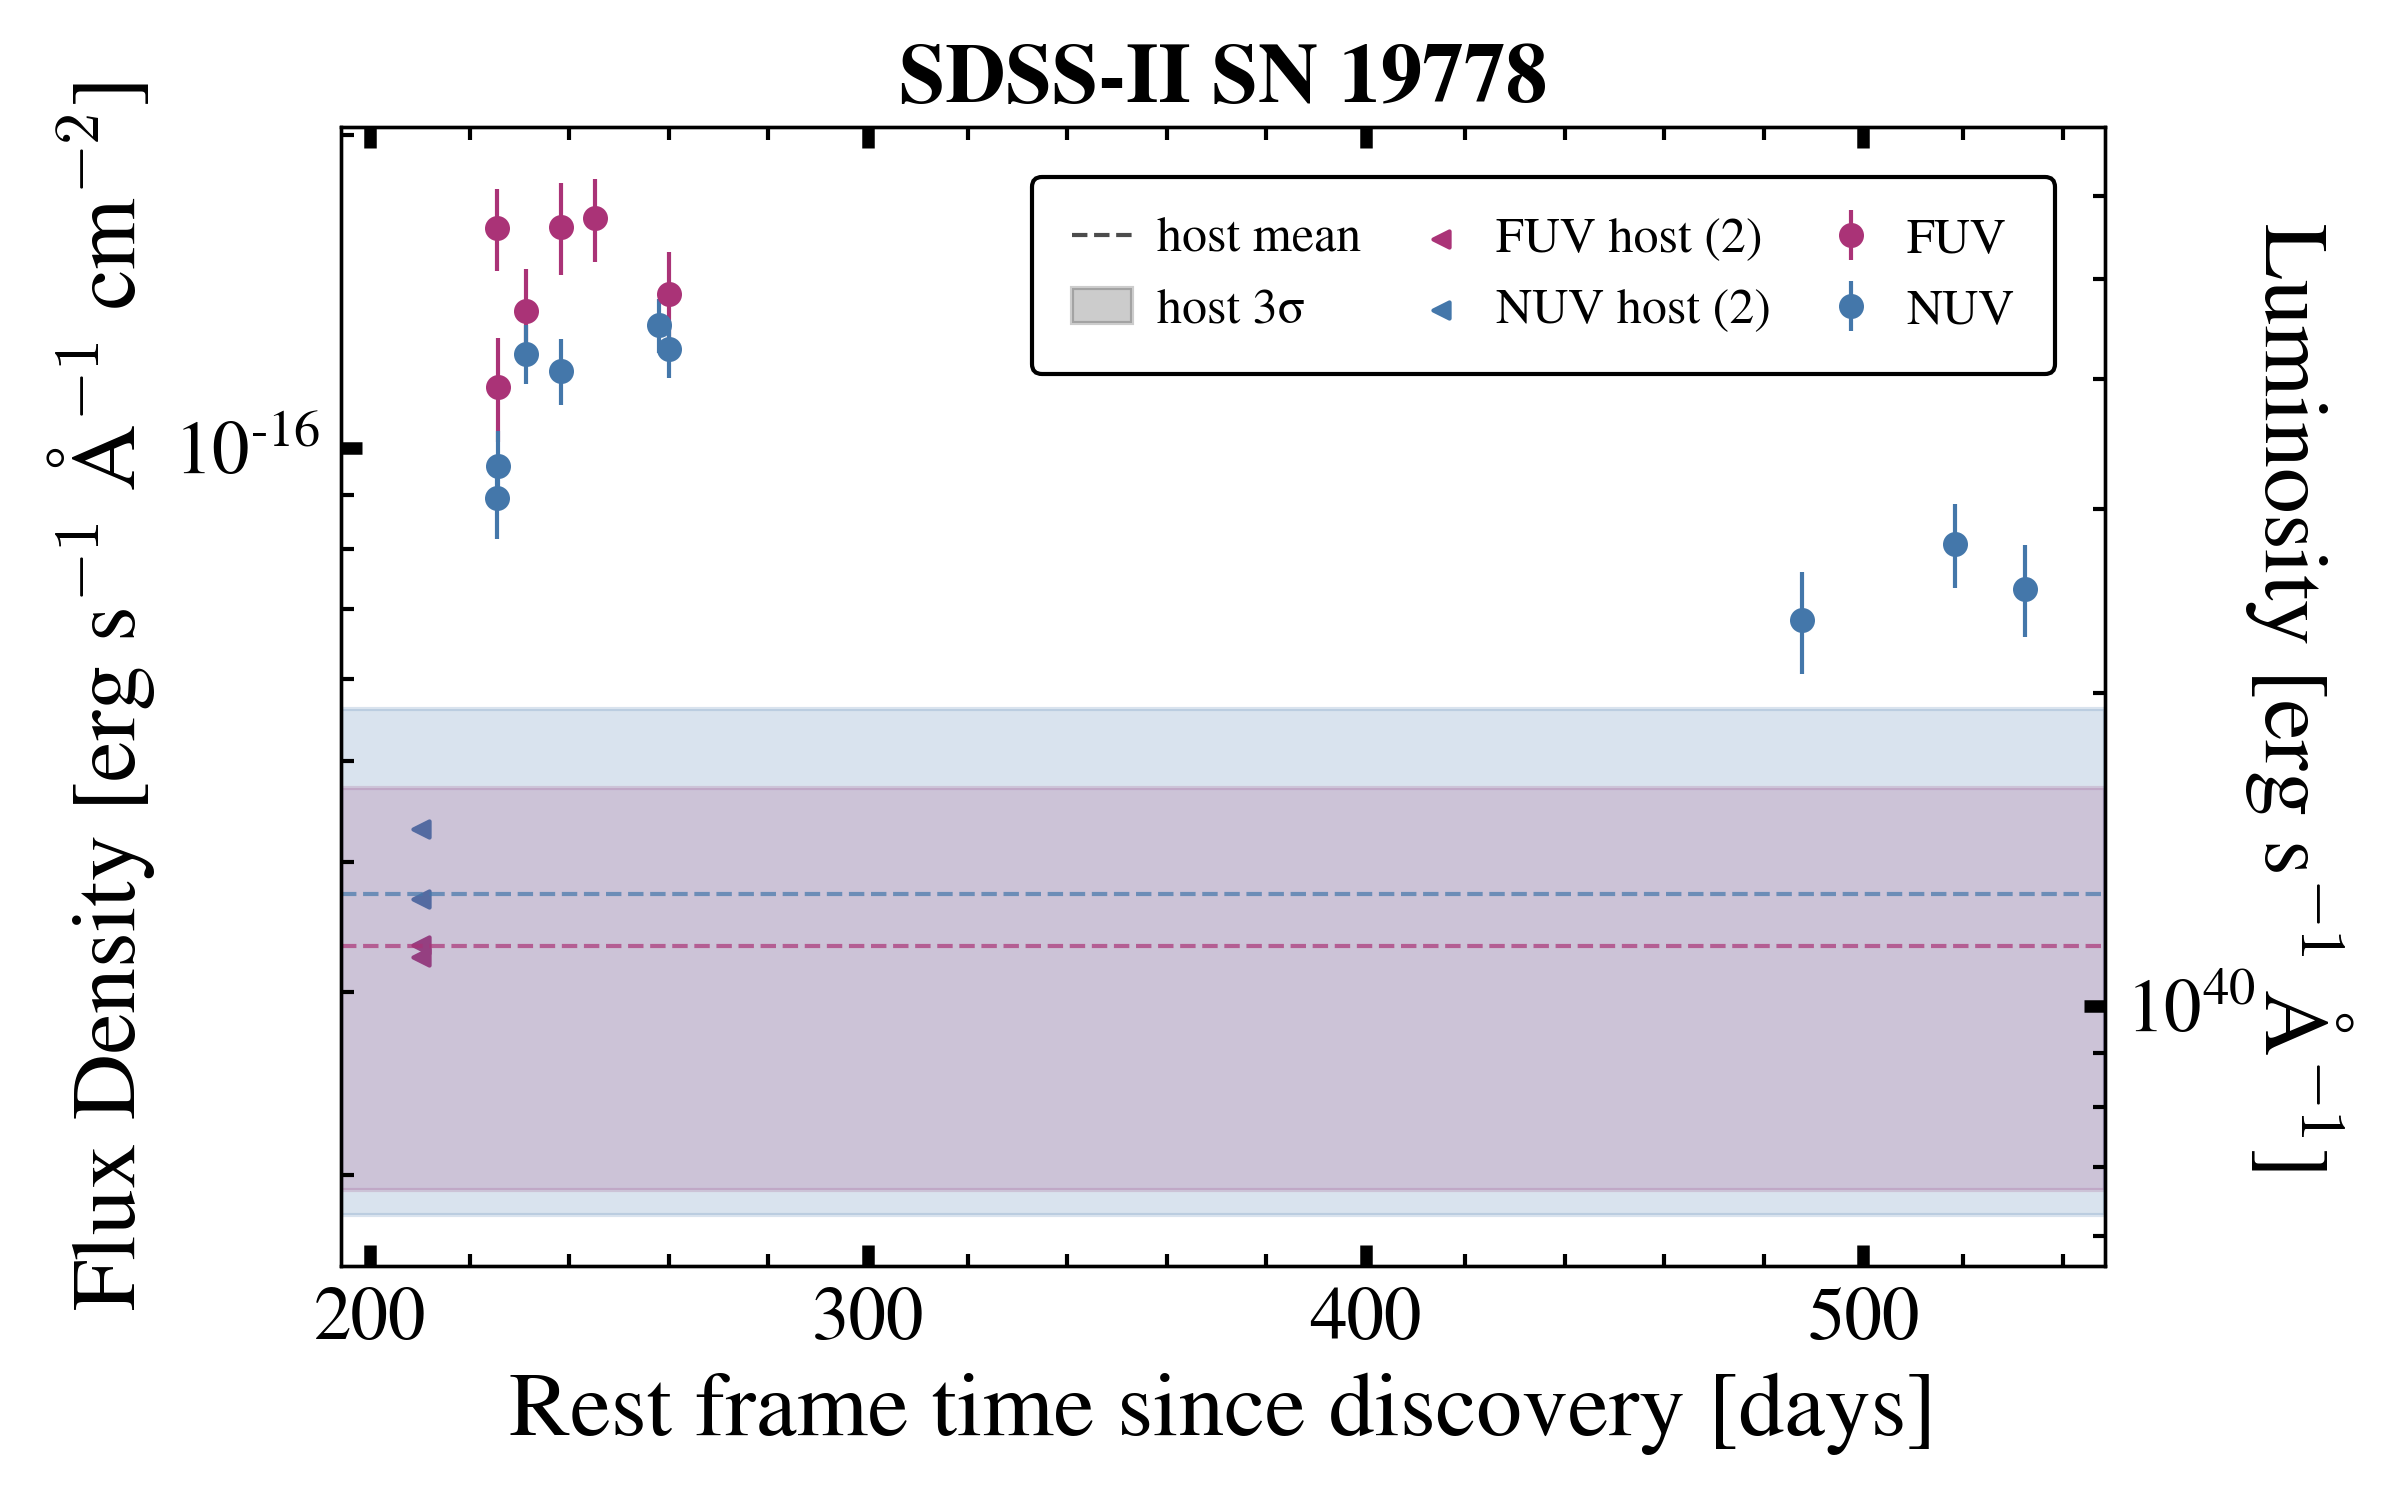
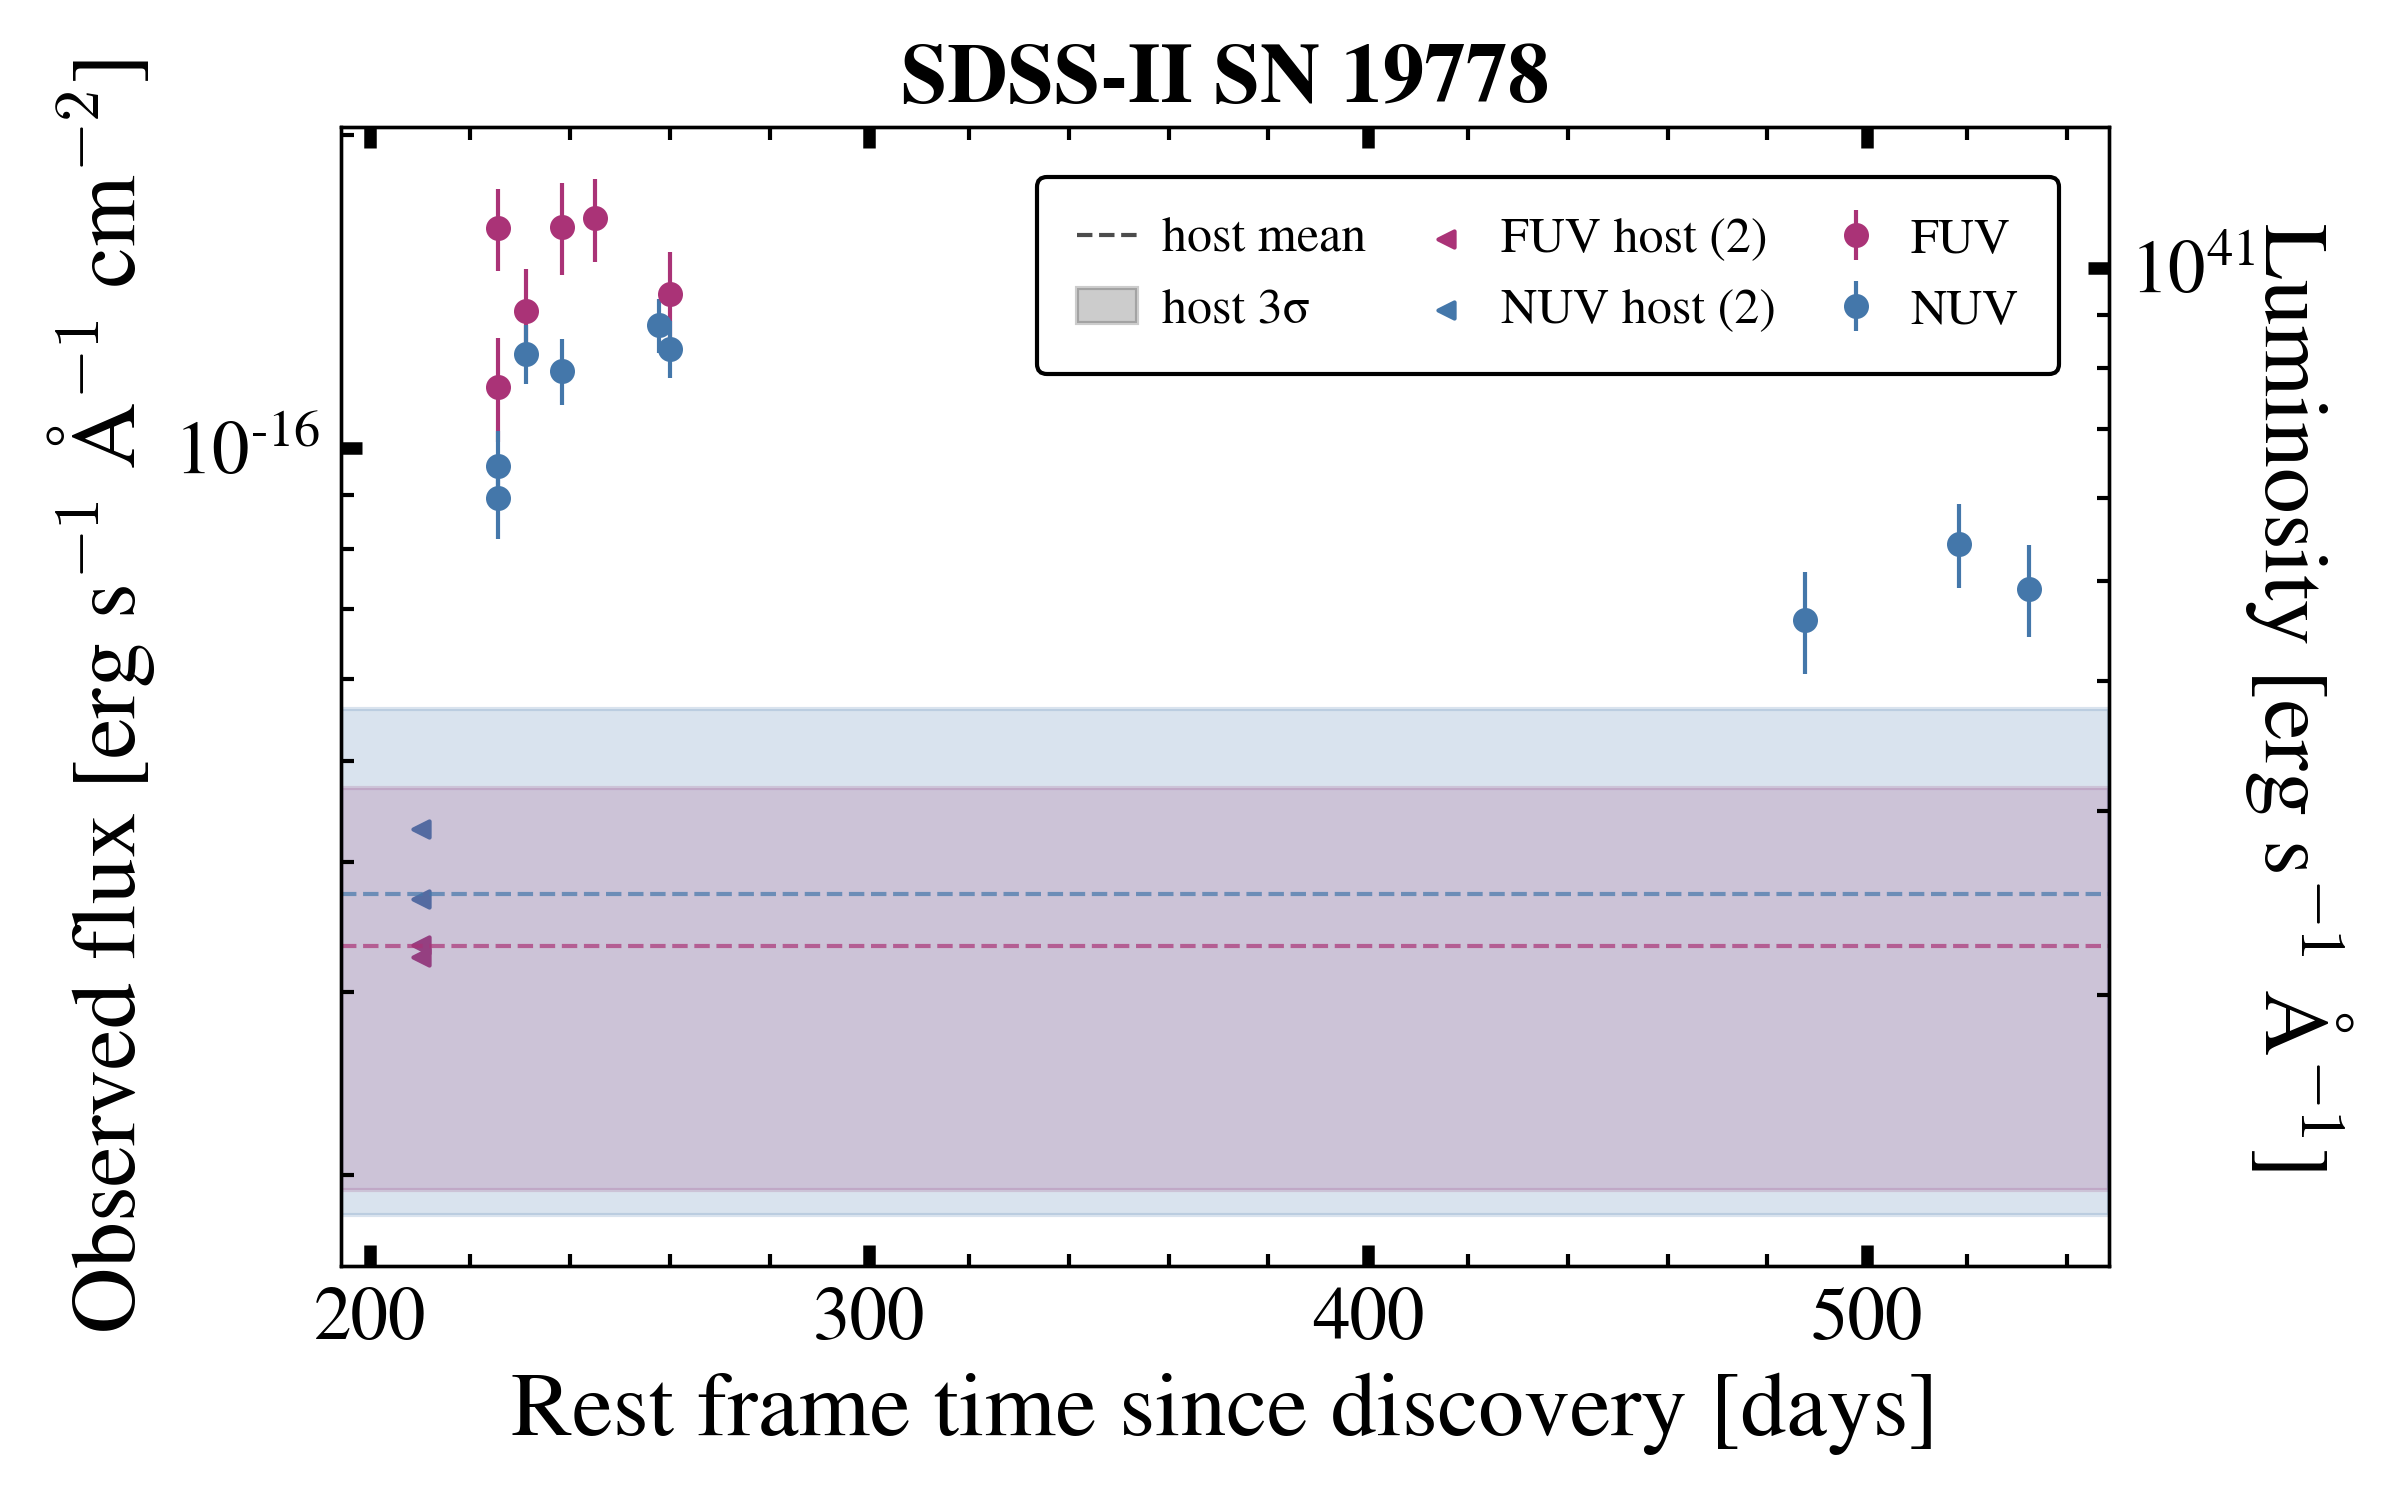
updated luminosity to include (1+z)^2 factor

diff --git a/utils.py b/utils.py
@@ -162,7 +162,7 @@ def swift_cps2flux(cps, cps_err, band):
     return flux, flux_err
 
 
-def absolute_luminosity(flux, dist):
+def absolute_luminosity(flux, dist, z):
     """
     Converts measured fluxes to absolute luminosities based on distance
     Inputs:
@@ -173,11 +173,11 @@ def absolute_luminosity(flux, dist):
     """
 
     cm_Mpc = 3.08568e24 # cm / Mpc
-    luminosity = 4 * np.pi * (dist * cm_Mpc)**2 * flux
+    luminosity = 4 * np.pi * (dist * cm_Mpc)**2 * (1 + z) ** 2 * flux
     return luminosity
 
 
-def absolute_luminosity_err(flux, flux_err, dist, dist_err):
+def absolute_luminosity_err(flux, flux_err, dist, dist_err, z):
     """
     Converts measured fluxes to absolute luminosities based on distance, and
     also returns corresponding error
@@ -190,7 +190,7 @@ def absolute_luminosity_err(flux, flux_err, dist, dist_err):
         absolute luminosity (Array), luminosity error (Array)
     """
 
-    luminosity = absolute_luminosity(flux, dist)
+    luminosity = absolute_luminosity(flux, dist, z)
     err = np.abs(luminosity) * np.sqrt((2*dist_err/dist)**2 + (flux_err/flux)**2)
     return luminosity, err
 
@@ -275,10 +275,11 @@ def full_import(sn, band, sn_info):
     # Convert measured fluxes to absolute luminosities
     dist = sn_info.loc[sn, 'pref_dist']
     dist_err = sn_info.loc[sn, 'pref_dist_err']
+    z = sn_info.loc[sn, 'z']
     lc['luminosity'], lc['luminosity_err'] = absolute_luminosity_err(
-            lc['flux_bgsub'], lc['flux_bgsub_err_total'], dist, dist_err)
+            lc['flux_bgsub'], lc['flux_bgsub_err_total'], dist, dist_err, z)
     lc['luminosity_hostsub'], lc['luminosity_hostsub_err'] = absolute_luminosity_err(
-            lc['flux_hostsub'], lc['flux_hostsub_err'], dist, dist_err)
+            lc['flux_hostsub'], lc['flux_hostsub_err'], dist, dist_err, z)
 
     # Convert apparent to absolute magnitudes
     lc['absolute_mag'], lc['absolute_mag_err_1'] = absolute_mag_err(
@@ -520,6 +521,7 @@ def import_swift_lc(sn, sn_info):
     # AB apparent and absolute magnitudes
     dist = sn_info.loc[sn, 'pref_dist']
     dist_err = sn_info.loc[sn, 'pref_dist_err']
+    z = sn_info.loc[sn, 'z']
     lc['ab_mag'], lc['ab_mag_err'] = swift_vega2ab(
             lc['magnitude'], lc['e_magnitude'], lc['band'])
     lc['absolute_mag'], lc['absolute_mag_err'] = absolute_mag_err(
@@ -529,7 +531,7 @@ def import_swift_lc(sn, sn_info):
     lc['cps'], lc['cps_err'] = swift_mag2cps(lc['ab_mag'], lc['ab_mag_err'], lc['band'])
     lc['flux'], lc['flux_err'] = swift_cps2flux(lc['cps'], lc['cps_err'], lc['band'])
     lc['luminosity'], lc['luminosity_err'] = absolute_luminosity_err(
-            lc['flux'], lc['flux_err'], dist, dist_err)
+            lc['flux'], lc['flux_err'], dist, dist_err, z)
 
     # Correct epoch for stretch factor
     lc['t_delta_rest'] = 1 / (1 + sn_info.loc[sn, 'z']) * lc['t_delta']

diff --git a/fancy_plot.py b/fancy_plot.py
@@ -115,7 +115,7 @@ def plot(sn, sn_info, args):
             xlabel = 'Rest frame time since discovery [days]'
         else:
             dt = after['t_delta']
-            xlabel = 'Time since discovery [days]'
+            xlabel = 'Observed time since discovery [days]'
         ax.errorbar(dt, after['flux_bgsub'] * yscale, 
                 yerr=after['flux_bgsub_err_total'] * yscale, linestyle='none', 
                 marker='o', ms=5, alpha=1,
@@ -143,7 +143,8 @@ def plot(sn, sn_info, args):
         flux_exp_text = '$10^{%s}$ ' % flux_exp
         ax.ticklabel_format(useOffset=False)
         ylim_flux = np.array(ax.get_ylim()) * 10**flux_exp
-    ax.set_ylabel('Flux Density [%serg s$^{-1}$ Å$^{-1}$ cm$^{-2}$]' % flux_exp_text)
+
+    ax.set_ylabel('Observed flux [%serg s$^{-1}$ Å$^{-1}$ cm$^{-2}$]' % flux_exp_text)
     if not args.notitle:
         ax.set_title(sn)
     if args.pad:
@@ -167,7 +168,7 @@ def plot(sn, sn_info, args):
 
     # Twin axis with absolute luminosity
     luminosity_ax = ax.twinx()
-    ylim_luminosity = absolute_luminosity(ylim_flux, sn_info.loc[sn, 'pref_dist'])
+    ylim_luminosity = absolute_luminosity(ylim_flux, sn_info.loc[sn, 'pref_dist'], sn_info.loc[sn, 'z'])
     if args.log:
         luminosity_ax.set_yscale('log')
         luminosity_ax.set_ylim(ylim_luminosity)

diff --git a/color_analysis.py b/color_analysis.py
@@ -56,13 +56,14 @@ plt.close()
 
 # Estimate temperature
 r = 0
-temp = 20000 # K
-lambda_eff = {'FUV': 1549, 'NUV': 2304.7}
-while r < mean_ratio - mean_ratio_err:
+temp = 10000 # K
+lambda_eff = {'FUV': 1549, 'NUV': 2304.7} # observed wavelength
+z_factor = 1/(1+sn_info.loc[sn, 'z'])
+while r < mean_ratio:
     temp += 100
     bb = models.BlackBody(temperature=temp*u.K)
-    FUV = bb(lambda_eff['FUV'] * u.AA)
-    NUV = bb(lambda_eff['NUV'] * u.AA)
+    FUV = bb(lambda_eff['FUV'] * z_factor * u.AA)
+    NUV = bb(lambda_eff['NUV'] * z_factor * u.AA)
     r = FUV / NUV
 
 print(temp)

diff --git a/detections.py b/detections.py
@@ -145,9 +145,9 @@ def detect_sn(sn, sn_info, args):
     # Configure plot
     if make_plot:
         if xmax > 0 and len(lc.index) > 0:
-            ax.set_xlabel('Time since discovery [days]')
+            ax.set_xlabel('Observed time since discovery [days]')
             ax.set_xlim((xmin - 50, xmax + 50))
-            ax.set_ylabel('Flux [erg s^-1 Å^-1 cm^-2]')
+            ax.set_ylabel('Observed flux density [erg s^-1 Å^-1 cm^-2]')
             plt.legend()
             fig.suptitle(sn)
             # Save full figure
